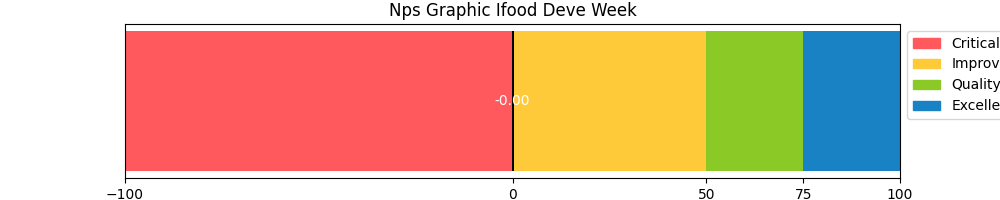
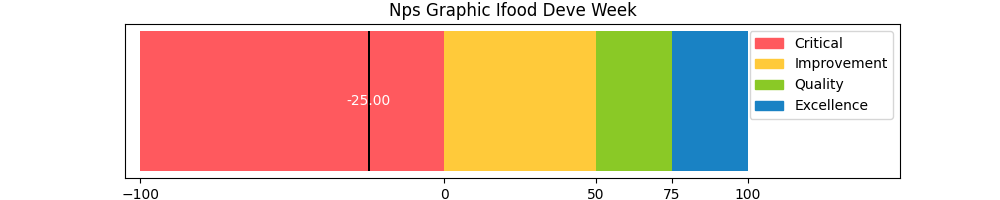
Updating README.md and NPS Graphic

diff --git a/Day Three/Day Three - Implementing IA with OpenIA.py b/Day Three/Day Three - Implementing IA with OpenIA.py
@@ -54,7 +54,7 @@ def CriateNpsGraphic(nps):
     axes.set_yticks([])
 
     #Set  x axes limit
-    axes.set_xlim(-100,100)
+    axes.set_xlim(-105,150)
 
     #Set the values on the x axes
     axes.set_xticks(npsValues)

diff --git a/README.md b/README.md
@@ -25,7 +25,8 @@ On the first day, we implemented three different approaches: imperative, functio
 
 During the second day, we enhanced the OOP implementation by incorporating graphical elements to perform the ETL (Extraction, Transformation, and Loading) process on the NPS data. We utilized the Matplotlib library to visualize the processed data and display the results.
 
-<img align="left" src="Day Two/Result NPS.png">
+&nbsp;
+<img align="center" src="Day Two/Result NPS.png">
 &nbsp;
 
 **Day Three**
@@ -33,13 +34,11 @@ During the second day, we enhanced the OOP implementation by incorporating graph
 On the third day, we applied natural language processing (NLP) techniques to analyze the sentiments expressed in the comments associated with the NPS ratings. To accomplish this, we leveraged the ChatGPT API to analyze, classify, and provide feedback on the sentiments of each evaluation. This allowed us to gain qualitative perspectives and insights regarding the product's assessment by customers.
 &nbsp;
 
-<img align="left" src="Day Three/FeddbackChatGPT.png">
-&nbsp;
+<img align="center" src="Day Three/FeddbackChatGPT.png"> &nbsp;
 
 **Conclusion**
 
 As demonstrated, the feedback generated by the ChatGPT API is highly valuable and can provide relevant insights when implemented correctly.
-
 
 ### 💻  Technologies
 <hr>
